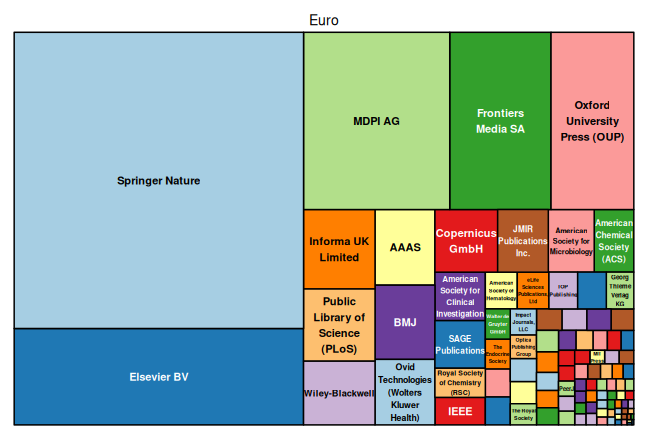
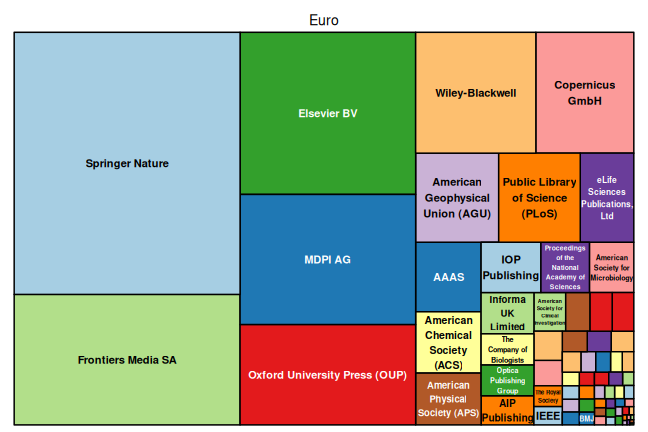
post: couperin data update

diff --git a/_posts/2026-04-15-couperin.md b/_posts/2026-04-15-couperin.md
@@ -1,0 +1,122 @@
+---
+layout:     post
+author:     Julia Bartlewski
+author_lnk: https://github.com/jbartlewski
+title:      Couperin.org provides APC data for 2 institutions
+date:       2026-04-15 08:00:00
+summary:    
+categories: [general, openAPC]
+comments: true
+---
+
+
+
+
+The [Couperin consortium](https://couperin.org) collects data on APC expenditures from universities and other research institutions in France. 
+
+APC expenditures for 2 institutions have now been made available to OpenAPC.
+
+Contact person for Couperin is [Valerie Larroque](mailto:[email redacted]).
+
+## Cost data
+
+
+
+The new data set provided by Couperin covers publication fees for 1,401 articles, total expenditure amounts to 2,964,335€ and the average fee is 2,116€. The data also contained BPC records which are not listed here. BPCs are aggregated in OpenAPC's [BPC](https://github.com/OpenAPC/openapc-de/blob/master/data/bpc.csv) data set.
+
+The data originates from the following institutions:
+
+- CNRS - Centre national de la recherche scientifique
+- ONERA - Office National d'Etudes et de Recherches Aérospatiales - The French Aerospace Lab
+
+
+## Overview
+
+A detailed analysis of the contributed data sets provides the following overview:
+
+### Breakdown by publisher
+
+
+
+|                                                            | Articles| Fees paid in EURO| Mean Fee paid|
+|:-----------------------------------------------------------|--------:|-----------------:|-------------:|
+|Springer Nature                                             |      261|            721524|          2764|
+|MDPI AG                                                     |      201|            278536|          1386|
+|Frontiers Media SA                                          |      176|            359219|          2041|
+|Elsevier BV                                                 |      152|            346857|          2282|
+|Copernicus GmbH                                             |       84|            144299|          1718|
+|Oxford University Press (OUP)                               |       81|            214478|          2648|
+|Wiley-Blackwell                                             |       67|            176946|          2641|
+|Public Library of Science (PLoS)                            |       48|             88539|          1845|
+|American Geophysical Union (AGU)                            |       41|             90146|          2199|
+|eLife Sciences Publications, Ltd                            |       27|             58155|          2154|
+|American Chemical Society (ACS)                             |       22|             48920|          2224|
+|American Physical Society (APS)                             |       19|             41329|          2175|
+|IOP Publishing                                              |       19|             36674|          1930|
+|AAAS                                                        |       18|             55445|          3080|
+|Informa UK Limited                                          |       14|             26581|          1899|
+|Optica Publishing Group                                     |       13|             19895|          1530|
+|American Society for Microbiology                           |       11|             27213|          2474|
+|Royal Society of Chemistry (RSC)                            |       11|             10396|           945|
+|American Astronomical Society                               |       10|              5672|           567|
+|AIP Publishing                                              |        9|             18775|          2086|
+|EDP Sciences                                                |        9|              3700|           411|
+|Proceedings of the National Academy of Sciences             |        7|             29714|          4245|
+|The Company of Biologists                                   |        7|             19928|          2847|
+|Cambridge University Press (CUP)                            |        5|             11490|          2298|
+|IEEE                                                        |        5|              6378|          1276|
+|Ubiquity Press, Ltd.                                        |        5|              2657|           531|
+|American Society for Clinical Investigation                 |        4|             14974|          3743|
+|International Union of Crystallography (IUCr)               |        4|              2412|           603|
+|Life Science Alliance, LLC                                  |        4|              8806|          2201|
+|Mineralogical Society of America                            |        4|             10205|          2551|
+|Ovid Technologies (Wolters Kluwer Health)                   |        4|             10076|          2519|
+|The Royal Society                                           |        4|              7147|          1787|
+|American Meteorological Society                             |        3|              2682|           894|
+|Cold Spring Harbor Laboratory Press                         |        3|              5979|          1993|
+|F1000 Research, Ltd.                                        |        3|              2844|           948|
+|Geological Society of America                               |        3|              6244|          2081|
+|Scientific Research Publishing, Inc.                        |        3|              1535|           512|
+|University of California Press                              |        3|              3672|          1224|
+|MIT Press - Journals                                        |        2|              1598|           799|
+|Open Library of the Humanities                              |        2|               764|           382|
+|Pensoft Publishers                                          |        2|              1189|           594|
+|Resilience Alliance, Inc.                                   |        2|              2338|          1169|
+|SAGE Publications                                           |        2|              4628|          2314|
+|Academic Journals                                           |        1|               323|           323|
+|Acoustical Society of America (ASA)                         |        1|               811|           811|
+|AME Publishing Company                                      |        1|              1133|          1133|
+|Association for Research in Vision and Ophthalmology (ARVO) |        1|              1557|          1557|
+|BiomedGrid LLC                                              |        1|              1205|          1205|
+|BioScientifica                                              |        1|               936|           936|
+|BMJ                                                         |        1|              2400|          2400|
+|Brill                                                       |        1|               200|           200|
+|Bulletin of Chemical Reaction Engineering and Catalysis     |        1|               100|           100|
+|Cell Physiol Biochem Press GmbH and Co KG                   |        1|               892|           892|
+|CSIRO Publishing                                            |        1|              2500|          2500|
+|Emerald                                                     |        1|              2880|          2880|
+|European Association of Geochemistry                        |        1|              1250|          1250|
+|Georg Thieme Verlag KG                                      |        1|               240|           240|
+|Institute of Electrostatics Japan                           |        1|               170|           170|
+|Institution of Engineering and Technology (IET)             |        1|              2900|          2900|
+|Magnolia Press                                              |        1|               157|           157|
+|Mary Ann Liebert Inc                                        |        1|              2746|          2746|
+|MedCrave Group, LLC                                         |        1|               909|           909|
+|Meteorological Society of Japan                             |        1|              1830|          1830|
+|PeerJ                                                       |        1|               987|           987|
+|Research Desk Inc                                           |        1|               212|           212|
+|Science Publishing Group                                    |        1|               665|           665|
+|Scientific Archives                                         |        1|               447|           447|
+|Society for Neuroscience                                    |        1|              2439|          2439|
+|SPIE-Intl Soc Optical Eng                                   |        1|              1638|          1638|
+|Walter de Gruyter GmbH                                      |        1|              2250|          2250|
+
+
+
+### Fees paid per publisher (in EURO)
+
+![plot of chunk tree_couperin_2026_01_28_full](/figure/tree_couperin_2026_01_28_full-1.png)
+
+###  Average costs per publisher (in EURO)
+
+![plot of chunk box_couperin_2026_01_28_full](/figure/box_couperin_2026_01_28_full-1.png)